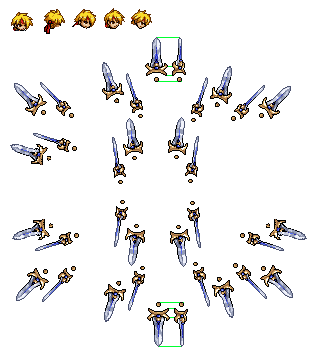
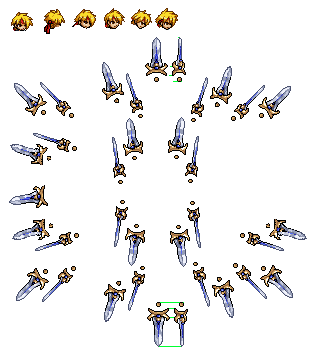
Walk added

Changed region(s): [[0.0311, 0.5194, 0.1553, 0.5806], [0.4658, 0.0306, 0.559, 0.0917]]

diff --git a/index.html b/index.html
@@ -27,10 +27,10 @@
 <div class="column-container">
     <div class="media-body p-3">
         <h2>System Animations</h2>
-        <div> Progress: 1/25 </div>
+        <div> Progress: 2/25 </div>
         <div> [] Entrance: </div>
         <div> [<i class="fas fa-check text-green"></i>] Run: <img src="img/run.gif"></img> </div>
-        <div> [ ] Walk: </div>
+        <div> [<i class="fas fa-check text-green"></i>] Walk: <img src="img/walk.gif"/> </div>
         <div> [ ] Jump: </div>
         <div> [ ] Double Jump: </div>
         <div> [<i class="fas fa-times text-red"></i>] Crouch: <img src="img/crouch.gif" /> </div>
@@ -103,9 +103,12 @@
         <div> [ ] Item Shoot </div>
         <h2> Misc. (Uncategorized) </h2>
     </div>
-   
 </div>
 
+<div class="pb-5 mb-5">
+    <h2>Sprite Sheet</h2>
+    <img src="img/spritesheet.png"/>
+</div>
 
 
 </body>
